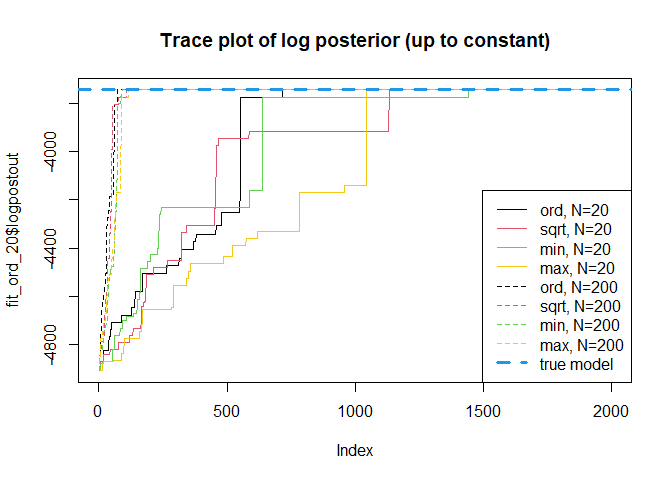
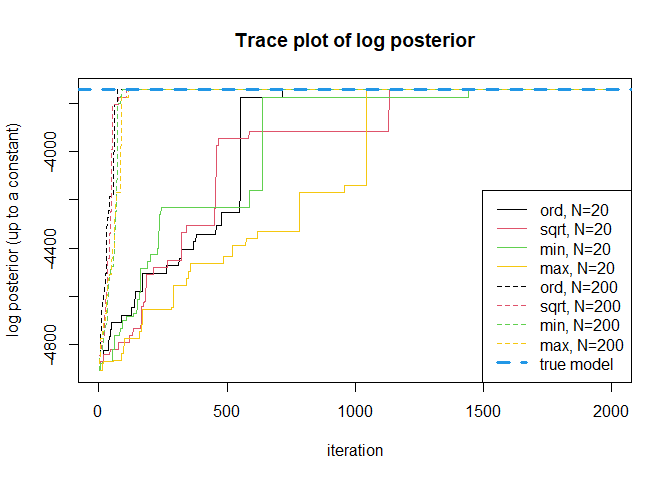
readme figure update

Changed region(s): [[0.2188, 0.0625, 0.8438, 0.125], [0.0, 0.25, 0.0312, 0.6875], [0.4688, 0.9062, 0.5625, 0.9688]]

diff --git a/README.md b/README.md
@@ -31,8 +31,8 @@ general setting applicable to high-dimensional model selection problems
 such as Bayesian variable selection, stochastic block models, and
 spatial clustering models.
 
-Please see folder `R` for the R software codes used in the simulation
-studies. <!--
+Please see the folder `R` for the R software codes used in the
+simulation studies. <!--
 ![Bayesian variable selection example](fig/fig3.PNG)
 -->
 
@@ -137,28 +137,28 @@ fit_ord_20 = bvs_mtm(y, X, ntry =  20, balancingft = NULL, burn = 0, nmc = 2000,
 #> Run MCMC, initial model size: 10 
 #> iteration 1000 model size: 10 
 #> iteration 2000 model size: 10 
-#> Elapsed time for 2000 MCMC iteration:  0.8540342 secs
+#> Elapsed time for 2000 MCMC iteration:  0.8634419 secs
 
 fit_sqrt_20 = bvs_mtm(y, X, ntry =  20, balancingft = "sqrt", burn = 0, nmc = 2000,
                       preprocessed = preprocessed, gammainit = gammainit)
 #> Run MCMC, initial model size: 10 
 #> iteration 1000 model size: 9 
 #> iteration 2000 model size: 10 
-#> Elapsed time for 2000 MCMC iteration:  0.6038671 secs
+#> Elapsed time for 2000 MCMC iteration:  0.64868 secs
 
 fit_min_20 = bvs_mtm(y, X, ntry =  20, balancingft = "min", burn = 0, nmc = 2000,
                      preprocessed = preprocessed, gammainit = gammainit)
 #> Run MCMC, initial model size: 10 
 #> iteration 1000 model size: 11 
 #> iteration 2000 model size: 10 
-#> Elapsed time for 2000 MCMC iteration:  0.7137129 secs
+#> Elapsed time for 2000 MCMC iteration:  0.710078 secs
 
 fit_max_20 = bvs_mtm(y, X, ntry =  20, balancingft = "max", burn = 0, nmc = 2000,
                      preprocessed = preprocessed, gammainit = gammainit)
 #> Run MCMC, initial model size: 10 
 #> iteration 1000 model size: 9 
 #> iteration 2000 model size: 10 
-#> Elapsed time for 2000 MCMC iteration:  0.669282 secs
+#> Elapsed time for 2000 MCMC iteration:  0.690932 secs
 
 # ntry = 200
 fit_ord_200 = bvs_mtm(y, X, ntry =  200, balancingft = NULL, burn = 0, nmc = 2000,
@@ -167,31 +167,31 @@ fit_ord_200 = bvs_mtm(y, X, ntry =  200, balancingft = NULL, burn = 0, nmc = 200
 #> Run MCMC, initial model size: 10 
 #> iteration 1000 model size: 10 
 #> iteration 2000 model size: 10 
-#> Elapsed time for 2000 MCMC iteration:  1.449366 secs
+#> Elapsed time for 2000 MCMC iteration:  1.384647 secs
 
 fit_sqrt_200 = bvs_mtm(y, X, ntry =  200, balancingft = "sqrt", burn = 0, nmc = 2000,
                       preprocessed = preprocessed, gammainit = gammainit)
 #> Run MCMC, initial model size: 10 
 #> iteration 1000 model size: 10 
 #> iteration 2000 model size: 10 
-#> Elapsed time for 2000 MCMC iteration:  1.267368 secs
+#> Elapsed time for 2000 MCMC iteration:  1.293503 secs
 
 fit_min_200 = bvs_mtm(y, X, ntry =  200, balancingft = "min", burn = 0, nmc = 2000,
                      preprocessed = preprocessed, gammainit = gammainit)
 #> Run MCMC, initial model size: 10 
 #> iteration 1000 model size: 10 
 #> iteration 2000 model size: 10 
-#> Elapsed time for 2000 MCMC iteration:  1.290061 secs
+#> Elapsed time for 2000 MCMC iteration:  1.309706 secs
 
 fit_max_200 = bvs_mtm(y, X, ntry =  200, balancingft = "max", burn = 0, nmc = 2000,
                      preprocessed = preprocessed, gammainit = gammainit)
 #> Run MCMC, initial model size: 10 
 #> iteration 1000 model size: 10 
 #> iteration 2000 model size: 10 
-#> Elapsed time for 2000 MCMC iteration:  1.235427 secs
+#> Elapsed time for 2000 MCMC iteration:  1.344248 secs
 
 # plot 
-plot(fit_ord_20$logpostout, col = 1, type="l", main = "Trace plot of log posterior (up to constant)")
+plot(fit_ord_20$logpostout, type="l", main = "Trace plot of log posterior", xlab = "iteration", ylab="log posterior (up to a constant)")
 lines(fit_sqrt_20$logpostout, col = 2)
 lines(fit_min_20$logpostout, col = 3)
 lines(fit_max_20$logpostout, col = 7)
@@ -207,7 +207,7 @@ legend("bottomright",lty = c(1,1,1,1,2,2,2,2,2),
                   "true model"))
 ```
 
-<img src="man/figures/README-unnamed-chunk-4-1.png" width="70%" />
+<img src="man/figures/README-unnamed-chunk-4-1.png" width="70%" style="display: block; margin: auto;" />
 
 We can check that MTM with $N=200$ converges to the true model roughly
 10 times faster than MTM with $N=20$. Note that the elapsed wall-clock
@@ -226,27 +226,27 @@ fit_ord_2000 = bvs_mtm(y, X, ntry =  2000, balancingft = NULL, burn = 0, nmc = 1
 #> [1] "balancingft is not provided, using ordinary weight function w(y|x) = p(y)"
 #> Run MCMC, initial model size: 10 
 #> iteration 1000 model size: 10 
-#> Elapsed time for 1000 MCMC iteration:  4.121873 secs
+#> Elapsed time for 1000 MCMC iteration:  4.016815 secs
 
 fit_sqrt_2000 = bvs_mtm(y, X, ntry =  2000, balancingft = "sqrt", burn = 0, nmc = 1000,
                       preprocessed = preprocessed, gammainit = gammainit)
 #> Run MCMC, initial model size: 10 
 #> iteration 1000 model size: 10 
-#> Elapsed time for 1000 MCMC iteration:  3.33851 secs
+#> Elapsed time for 1000 MCMC iteration:  3.224952 secs
 
 fit_min_2000 = bvs_mtm(y, X, ntry =  2000, balancingft = "min", burn = 0, nmc = 1000,
                         preprocessed = preprocessed, gammainit = gammainit)
 #> Run MCMC, initial model size: 10 
 #> iteration 1000 model size: 10 
-#> Elapsed time for 1000 MCMC iteration:  3.134462 secs
+#> Elapsed time for 1000 MCMC iteration:  3.184143 secs
 
 fit_max_2000 = bvs_mtm(y, X, ntry =  2000, balancingft = "max", burn = 0, nmc = 1000,
                         preprocessed = preprocessed, gammainit = gammainit)
 #> Run MCMC, initial model size: 10 
 #> iteration 1000 model size: 10 
-#> Elapsed time for 1000 MCMC iteration:  2.861666 secs
+#> Elapsed time for 1000 MCMC iteration:  2.977435 secs
 
-plot(fit_sqrt_2000$logpostout, type = "l", col = 2, main = "Trace plot of log posterior (up to constant)")
+plot(fit_sqrt_2000$logpostout, type = "l", main = "Trace plot of log posterior", xlab = "iteration", ylab="log posterior (up to a constant)")
 lines(fit_ord_2000$logpostout, col = 1)
 lines(fit_min_2000$logpostout, col = 3)
 lines(fit_max_2000$logpostout, col = 7)
@@ -256,7 +256,7 @@ legend("right", lty = c(1,1,1,1,2), col = c(1,2,3,7,4),lwd = c(1,1,1,1,3),
                   "true model"))
 ```
 
-<img src="man/figures/README-unnamed-chunk-5-1.png" width="70%" />
+<img src="man/figures/README-unnamed-chunk-5-1.png" width="70%" style="display: block; margin: auto;" />
 
 We can clearly see that MTM with $w_{\mathrm{ord}}$ stuck at local mode
 whereas others does not, which shows necessity of using locally balanced
